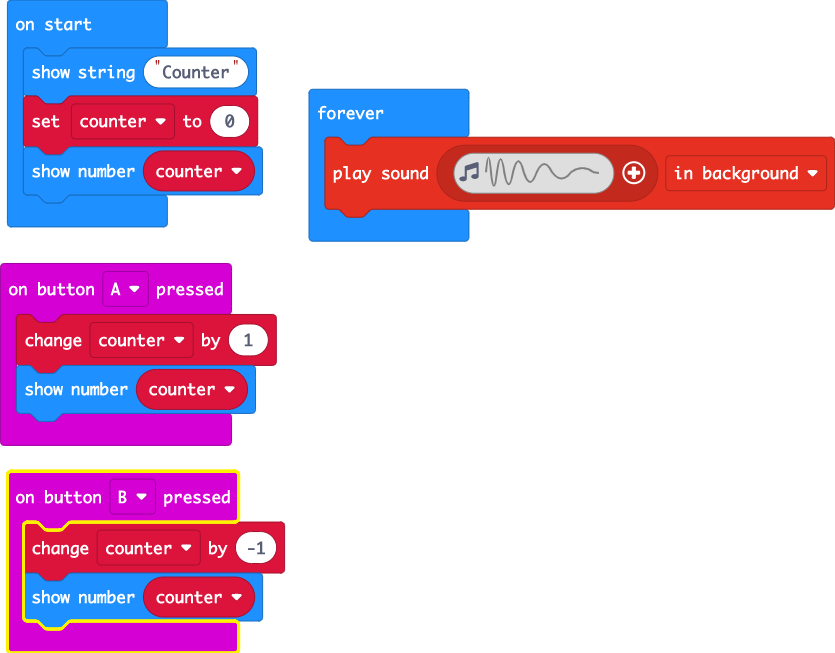
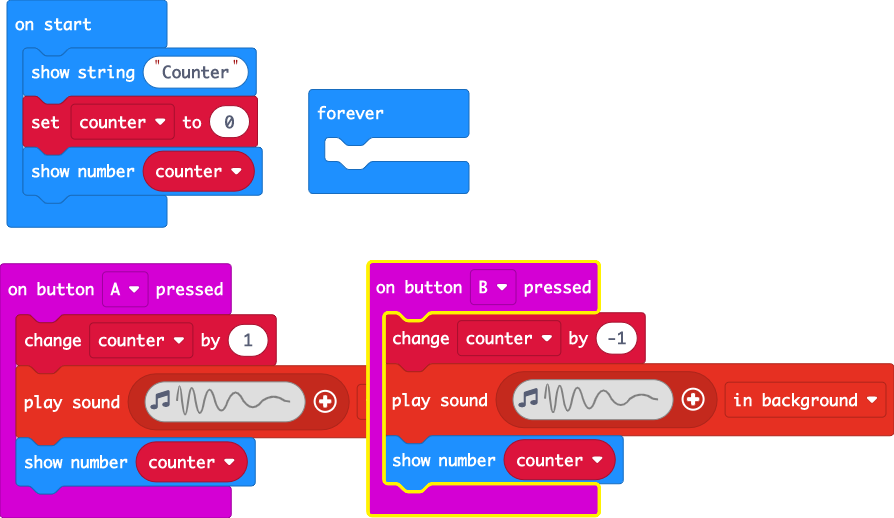
Update main.blocks, main.ts

diff --git a/main.ts b/main.ts
@@ -1,9 +1,11 @@
 input.onButtonPressed(Button.A, function () {
     counter += 1
+    music.playSoundEffect(music.createSoundEffect(WaveShape.Sine, 5000, 0, 255, 0, 500, SoundExpressionEffect.None, InterpolationCurve.Linear), SoundExpressionPlayMode.InBackground)
     basic.showNumber(counter)
 })
 input.onButtonPressed(Button.B, function () {
     counter += -1
+    music.playSoundEffect(music.createSoundEffect(WaveShape.Sine, 5000, 0, 255, 0, 500, SoundExpressionEffect.None, InterpolationCurve.Linear), SoundExpressionPlayMode.InBackground)
     basic.showNumber(counter)
 })
 let counter = 0
@@ -11,5 +13,5 @@ basic.showString("Counter")
 counter = 0
 basic.showNumber(counter)
 basic.forever(function () {
-    music.playSoundEffect(music.createSoundEffect(WaveShape.Sine, 5000, 0, 255, 0, 500, SoundExpressionEffect.None, InterpolationCurve.Linear), SoundExpressionPlayMode.InBackground)
+	
 })
